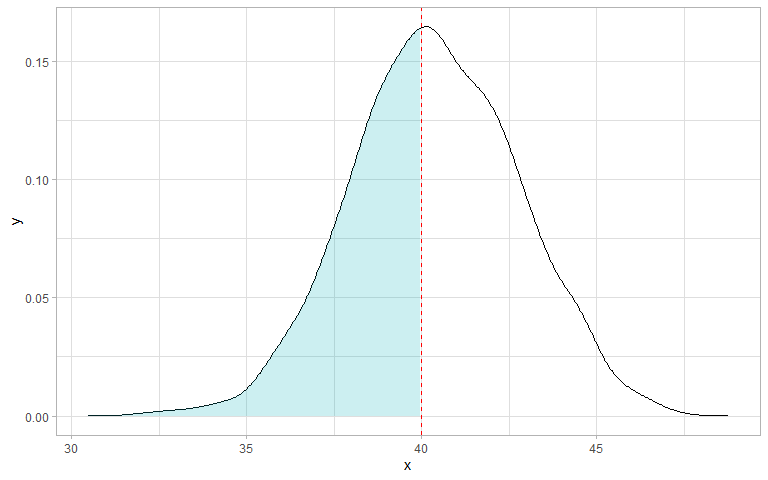
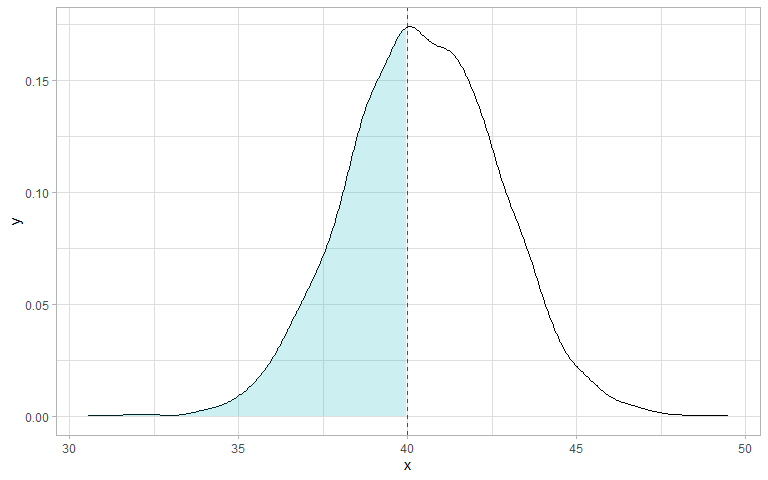
minor updates

diff --git a/Palmer-Penguins.md b/Palmer-Penguins.md
@@ -745,7 +745,7 @@ boot <-
          tidy_mle = map(dist_mle, ~broom::tidy(.))) %>% 
   ungroup() %>% 
   mutate(
-    boot_charactersitic = map(data, ~boot_means(df = ., n = 1000))) %>% 
+    boot_charactersitic = map(data, ~boot_means(df = ., n = 2000))) %>% 
   unnest(boot_charactersitic) %>% 
   select(-data)
 
@@ -877,7 +877,7 @@ boot %>%
   filter(sex == "Male", 
          species == "Adelie") %>% 
   select(-sd, -dist_mle, -tidy_mle) %>% 
-  mutate(`Normal Distribution` = rnorm(1000, mean = dist_arg$estimate[1], sd = dist_arg$estimate[2])) %>% 
+  mutate(`Normal Distribution` = rnorm(2000, mean = dist_arg$estimate[1], sd = dist_arg$estimate[2])) %>% 
   rename(`Bootstrap mean` = mean) %>% 
   gather(key, value, -species, -sex) %>% 
   mutate(key = ifelse(key == "culmen_length_mm", "Empirical Distribution", key)) %>% 
@@ -906,7 +906,7 @@ basic test can be used.
 standart normal distribution. See below:
 
 ``` r
-z <-  rnorm(1000,  mean = dist_arg$estimate[1], sd = dist_arg$estimate[2])
+z <-  rnorm(3000,  mean = dist_arg$estimate[1], sd = dist_arg$estimate[2])
 
 dens <- density(z)
 
@@ -941,7 +941,7 @@ used
 :
 
 ``` r
-z <-  rnorm(1000,  mean = dist_arg$estimate[1], sd = dist_arg$estimate[2])
+z <-  rnorm(4000,  mean = dist_arg$estimate[1], sd = dist_arg$estimate[2])
 
 dens <- density(z)
 
@@ -1014,10 +1014,10 @@ conf_intervals_MLE <-
 
 
 bind_rows(conf_intervals_original_data, conf_intervals_MLE) %>% 
-  ggplot(aes(mean, species, color = Method)) + 
+  ggplot(aes(mean, species, color = species)) + 
   geom_point() + 
-  geom_errorbar(aes(xmin = conf.low, xmax = conf.high)) + 
-  facet_grid(~ Method ~ sex)
+  geom_errorbar(aes(xmin = conf.low, xmax = conf.high)) +
+  facet_grid(~Method~sex, scales = "free_y")
 ```
 
 ![](Palmer-Penguins_files/figure-gfm/unnamed-chunk-12-1.png)<!-- -->
